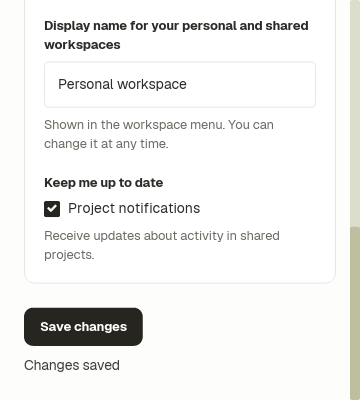
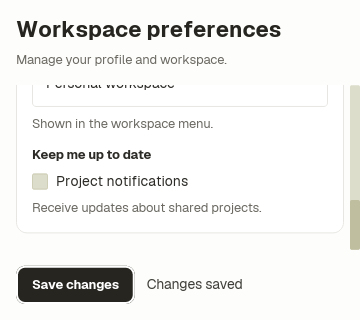
feat(settings): keep workspace preferences actions visible [skip ci]

diff --git a/examples/settings/README.md b/examples/settings/README.md
@@ -1,39 +1,41 @@
-# Settings form
+# Workspace preferences
 
-A complete settings screen built from the default Ice component library. The
-application supplies labels, bound values, help text and handlers; Form owns
-scrolling and readable content width, and FormSection/TextField supply the
-shared spacing and control treatment.
+A compact settings screen built from Ice's default `PageHeader`, `Form`,
+`FormSection`, `TextField`, and `Field` components. Profile, workspace and
+notification edits use the existing local save handler; nothing is persisted
+or sent to a service.
 
 ```sh
 cargo run -p settings-example
 cargo test -p settings-example
 ```
 
-The workspace-name input changes only `radius` and `padding`. It retains the
-same native input, binding, accessible name and focus behavior. The notification
-row uses Field's content slot to supply a different native control. Validation
-messages and saving are application-owned; this example does not persist data
-or validate an email address against a service.
+The heading and Save changes footer sit outside the bounded Form. At 960×820
+and 360×320, Save stays visible while fields scroll, including the final
+notification control. Success feedback shares the footer row, preserving the
+form's height and reading position.
 
-Form defaults to a 640 logical-pixel maximum outer content width and 24-pixel
-padding. Labels and descriptions stack and wrap at the available width. This
-predictable single-column layout works at 360 pixels without breakpoint code.
-It remains a desktop example, not a mobile-platform support claim.
+The form has a 640-pixel maximum content width, 16-pixel outer padding, and
+compact section spacing. The workspace input overrides only the default
+component's radius (4 pixels) and padding (14 pixels); native editing, focus,
+accessible naming and keyboard navigation remain intact. Its deliberately long
+label wraps. The optional heading explanation can be omitted with the
+`empty_explanation` preset.
 
-Capture the authored tests:
+The authored tests exercise native Iced layout, wheel scrolling, text editing,
+Tab/Space/Enter navigation, wrapped email feedback, and successful correction
+without losing other edits. Captures pin scale 1, en-US, Linux and reduced motion.
 
 ```sh
 ICE_TEST_ARTIFACT_DIR="$PWD/examples/settings/screenshots" \
   cargo test -p settings-example -- --nocapture
+cargo ice inspect examples/settings/src/ui/app.ice \
+  --viewport 960x820 --theme light --scale 1 --locale en-US \
+  --platform linux --reduced-motion --name wide
 ```
 
-The wide, narrow and error tests pin scale 1, en-US, Linux and reduced motion.
-They cover 360×1000 and
-960×1000 viewports, long labels, multiline error messages and customized input.
+![Workspace preferences](screenshots/settings_custom_input/customized.png)
 
-![Narrow settings](screenshots/settings_narrow_layout/narrow.png)
+![Short window at the last field](screenshots/settings_short_window_scroll/scrolled.png)
 
-![Customized settings](screenshots/settings_custom_input/customized.png)
-
-![Wrapped validation feedback](screenshots/settings_error_layout/error.png)
+![Wrapped validation feedback at 360×320](screenshots/settings_error_layout/error_short.png)
